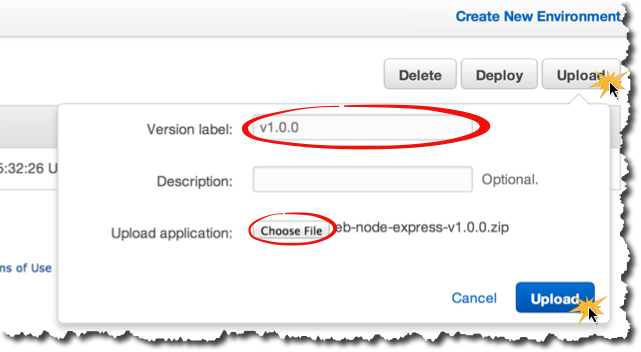
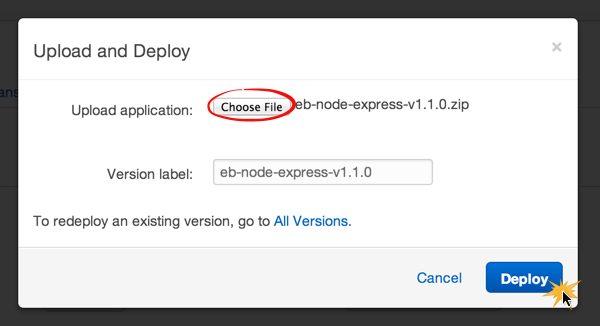
Latest changes

diff --git a/deploy-app-version.md b/deploy-app-version.md
@@ -4,34 +4,20 @@ You've got a working Elastic Beanstalk sample app and have downloaded a new app 
 
 ## Step-by-Step
 
-### Upload a New Application Version
+### Upload and Deploy a New Application Version
 
-Before you can deploy a new application version, you first have to upload it to Elastic Beanstalk.
-
-1. Click the Deploy button on your application's dashboard page:
+1. Click the Upload and Deploy button on your application's dashboard page:
 
 	![](img/en/step_click-deploy.png)
 
-2. Click Upload, enter a Version Label, choose the first version release (v1.0.0) you downloaded previously, and click Upload:
+2. Click Choose File, select the first version release (v1.0.0) you downloaded previously, and click Deploy:
 	
 	![](img/en/step_upload-new-version.png)
-
-### Deploy New Version
-
-Now that you've uploaded a new application version, you can deploy it to your environment.
-
-1. Select the version you just uploaded, click Deploy, select your Environment, then click Deploy:
-
-	![](img/en/step_deploy-new-version.png)
-
-2. Go back to your application environment's dashboard:
-	
-	![](img/en/step_go-to-app-dashboard.png)
 	
 3. Your environment status will be Gray while the application is deployed to your environment:
 
 	![](img/en/step_monitor-app-status.png)
-	
+
 4. Open your environment's URL when the status returns to Green
 
 ### Use New Version
@@ -42,6 +28,27 @@ Refer to the release notes for the app/version that you just deployed for detail
 |:-------------:| ------------- 
 | ![Node.js](img/node_logo.png) |  [Release Notes](http://github.com/awslabs/eb-node-express/releases) |
 | ![Python](img/python-logo.png) | [Release Notes](http://github.com/awslabs/eb-python-flask/releases) |
+
+<a id="change-software-config">
+#### Changing Software Configuration
+
+If the version you deployed asks you to change your application's software configuration settings, follow these steps:
+
+1. Click the Configuration link:
+
+	![](img/en/step_click_config.png)
+	
+2. Click the Software Configuration gear icon:
+	
+	![](img/en/step_click-config-gear.png)
+	
+3. Change the specified environment setting and click Save:
+	
+	![](img/en/step_change-save-config.png)
+	
+4. Navigate back to your environment's Dashboard, wait until it's Green, and view it via the URL:
+	
+	![](img/en/step_back-to-dashboard.png)
 	
 ### Repeat
 

diff --git a/where-to-go-from-here.md b/where-to-go-from-here.md
@@ -2,6 +2,21 @@
 
 ---
 
-### [IMPORTANT](important.md)
+## IMPORTANT
+You've deployed a live application to AWS Elastic Beanstalk. Although the application falls within the [AWS Free Tier](https://aws.amazon.com/free) for 1 year, be sure to **delete the application before leaving this session** by following [these instructions](important.md).
+
+## More Info
+
+1. [Documentation](http://aws.amazon.com/documentation/elasticbeanstalk/)
+
+2. [Forums](https://forums.aws.amazon.com/forum.jspa?forumID=86)
+
+## Other Deployment Options
+In addition to the Managment Console, Elastic Beanstalk provides several other powerful tools to deploy and manage your apps:
+
+1. [Git and _eb_ for command line deployment and management](http://docs.aws.amazon.com/elasticbeanstalk/latest/dg/command-reference-get-started.html)
+
+2. [Application Deployment and Management with the AWS Toolkit for Eclipse](http://docs.aws.amazon.com/elasticbeanstalk/latest/dg/create_deploy_Java.sdlc.html)
+
 
 ---

diff --git a/important.md b/important.md
@@ -1,2 +1,11 @@
 # Delete Your Application
 Although the application you deployed falls within the [AWS Free Tier](https://aws.amazon.com/free) for 1 year, you should delete the application before leaving this session.
+
+## Step by Step
+1. Go to the Elastic Beanstalk Dashboard:
+	
+	![](img/en/step_go-to-eb-dashboard.png)
+	
+2. Find your application, click Actions, then Delete Application
+
+	![](img/en/step_delete-application.png)

diff --git a/getting-started.md b/getting-started.md
@@ -14,7 +14,7 @@ Let's begin the session by launching a sample app that we'll work with later.
 
 	![](img/en/step_name-app.png)
 
-4. Choose **Node.js, PHP, Python, or Ruby** for platform, and select a **Load balancing, autoscaling** environment:
+4. Choose **Node.js or Python** for platform, and select a **Load balancing, autoscaling** environment:
 
 	![](img/en/step_choose-platform.png)
 	

diff --git a/view-sample-app.md b/view-sample-app.md
@@ -4,7 +4,7 @@ View the Sample Application you deployed to your Elastic Beanstalk environment i
 
 ## Step-by-Step
 
-1. Your application is ready when its **Environment Status** is Green:
+1. Your application is ready when its **Environment Health** is Green:
 
 	![](img/en/step_view-sample-app.png)
 
